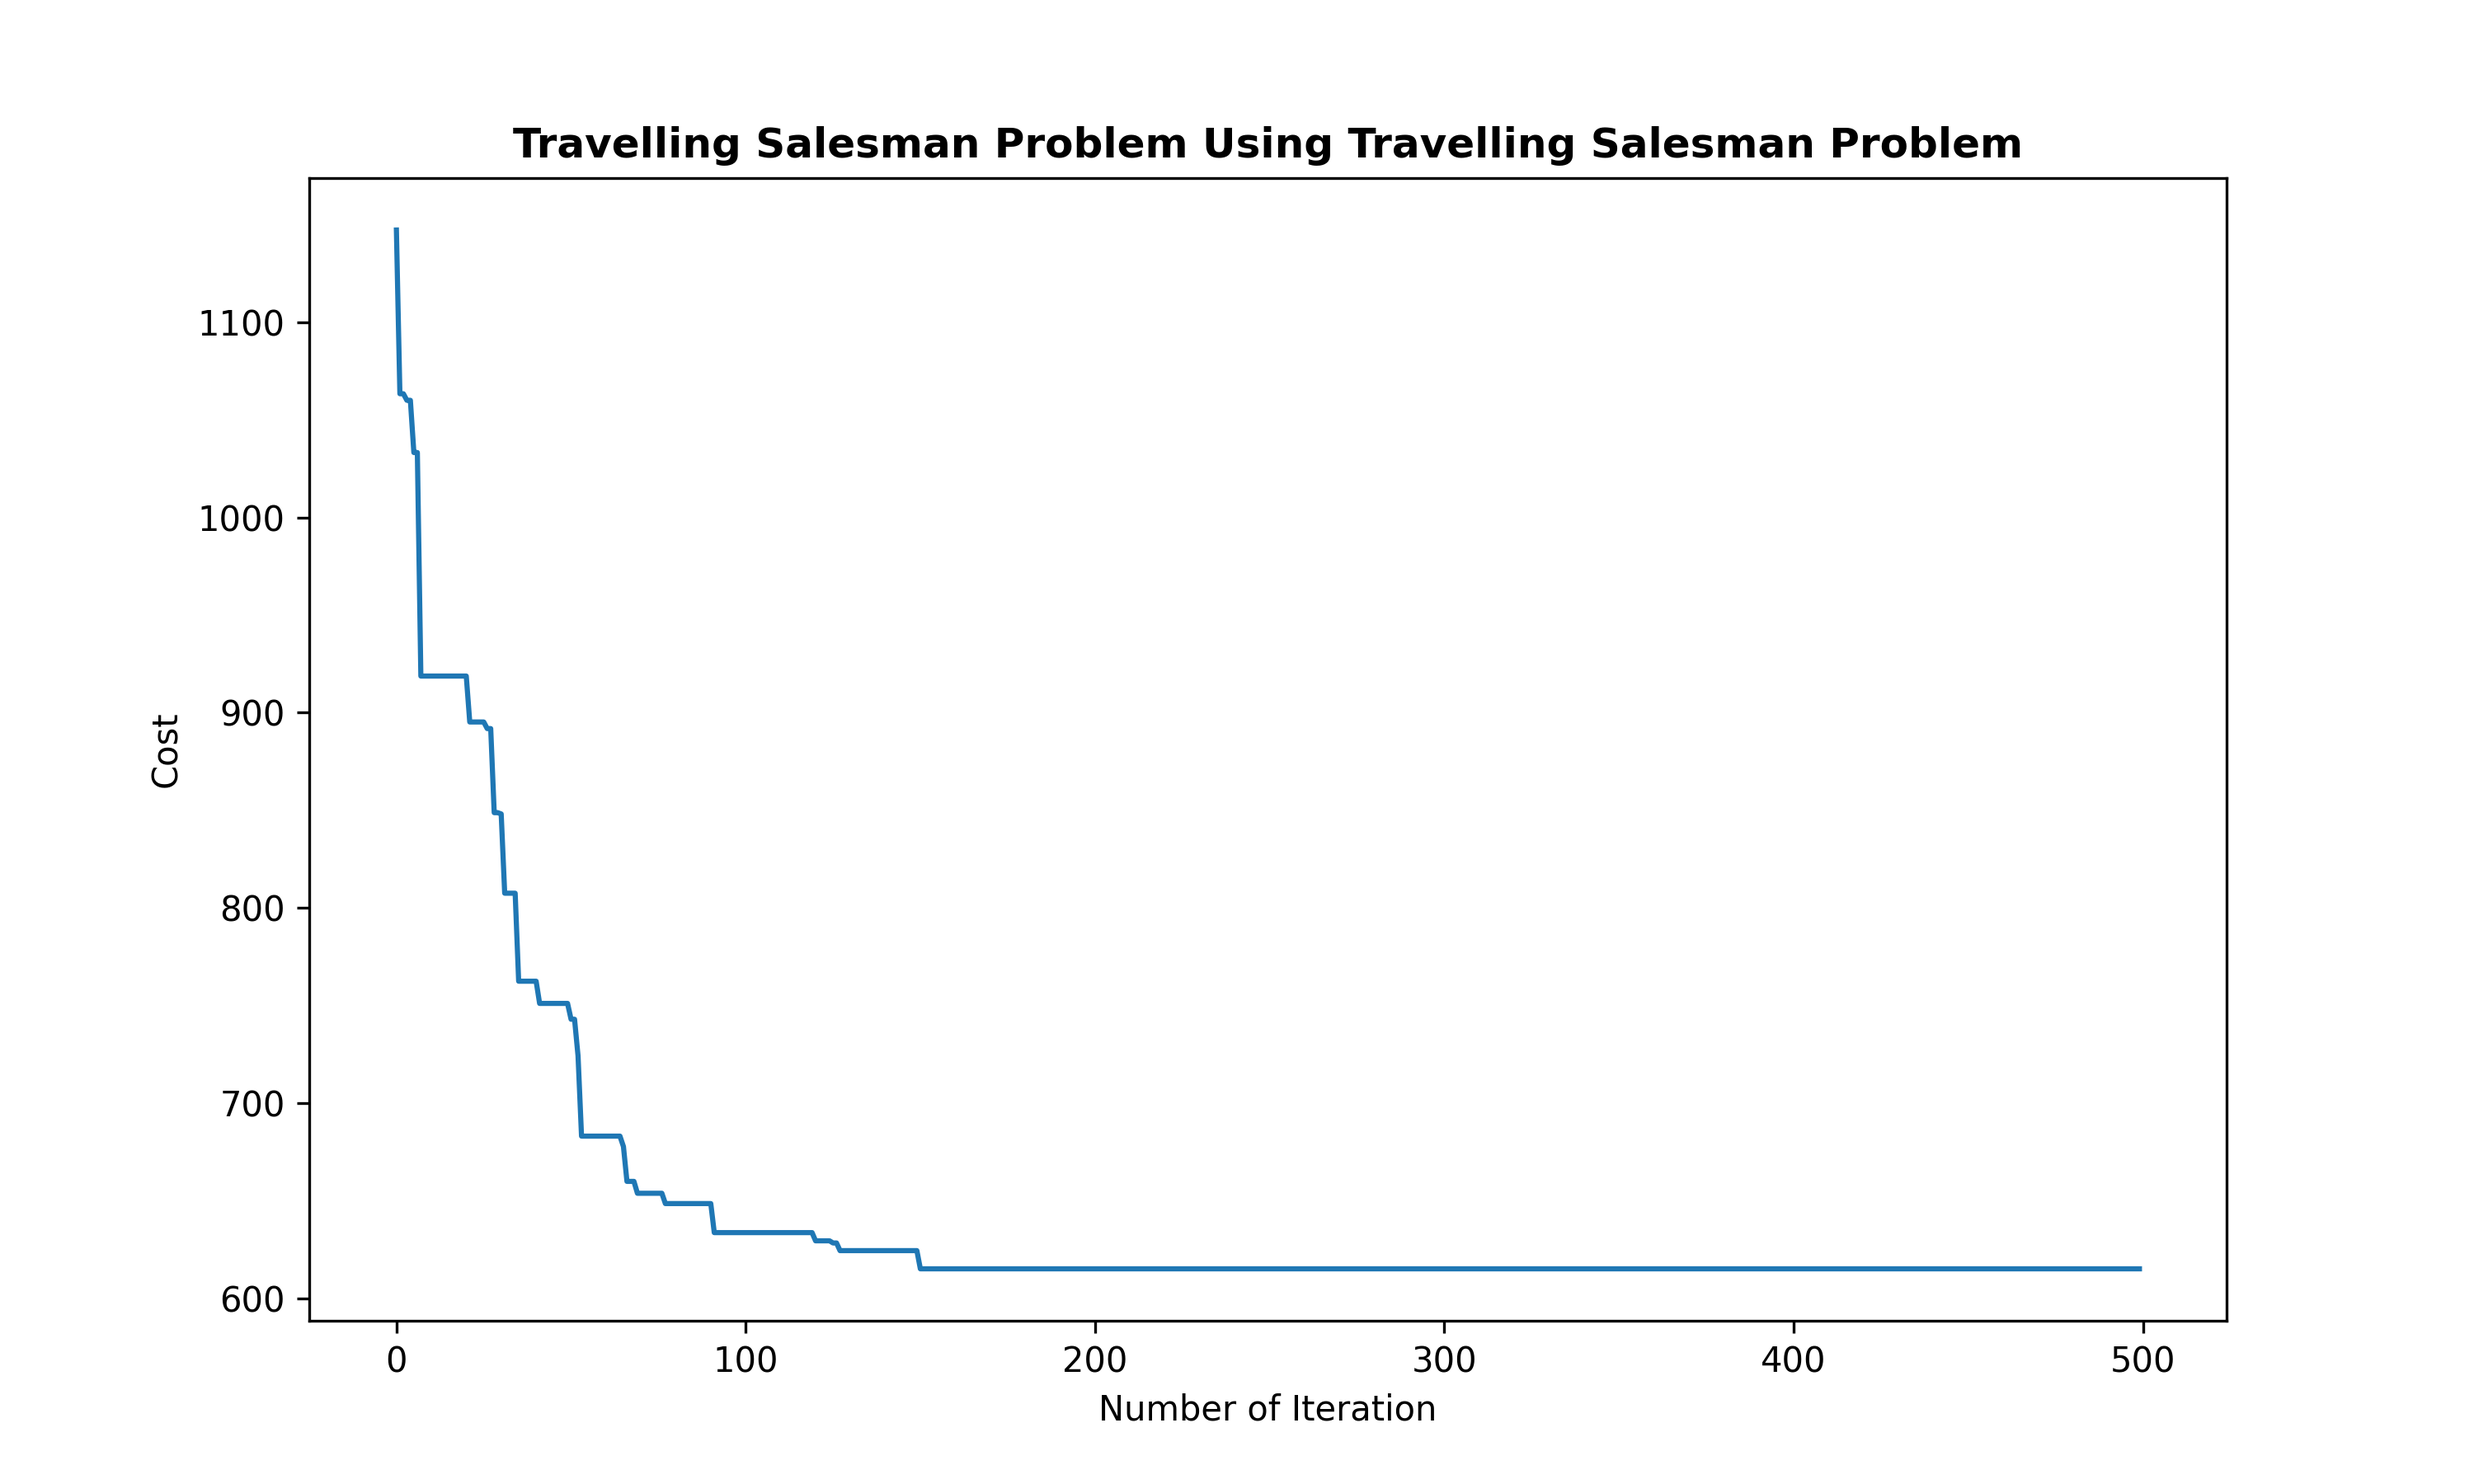
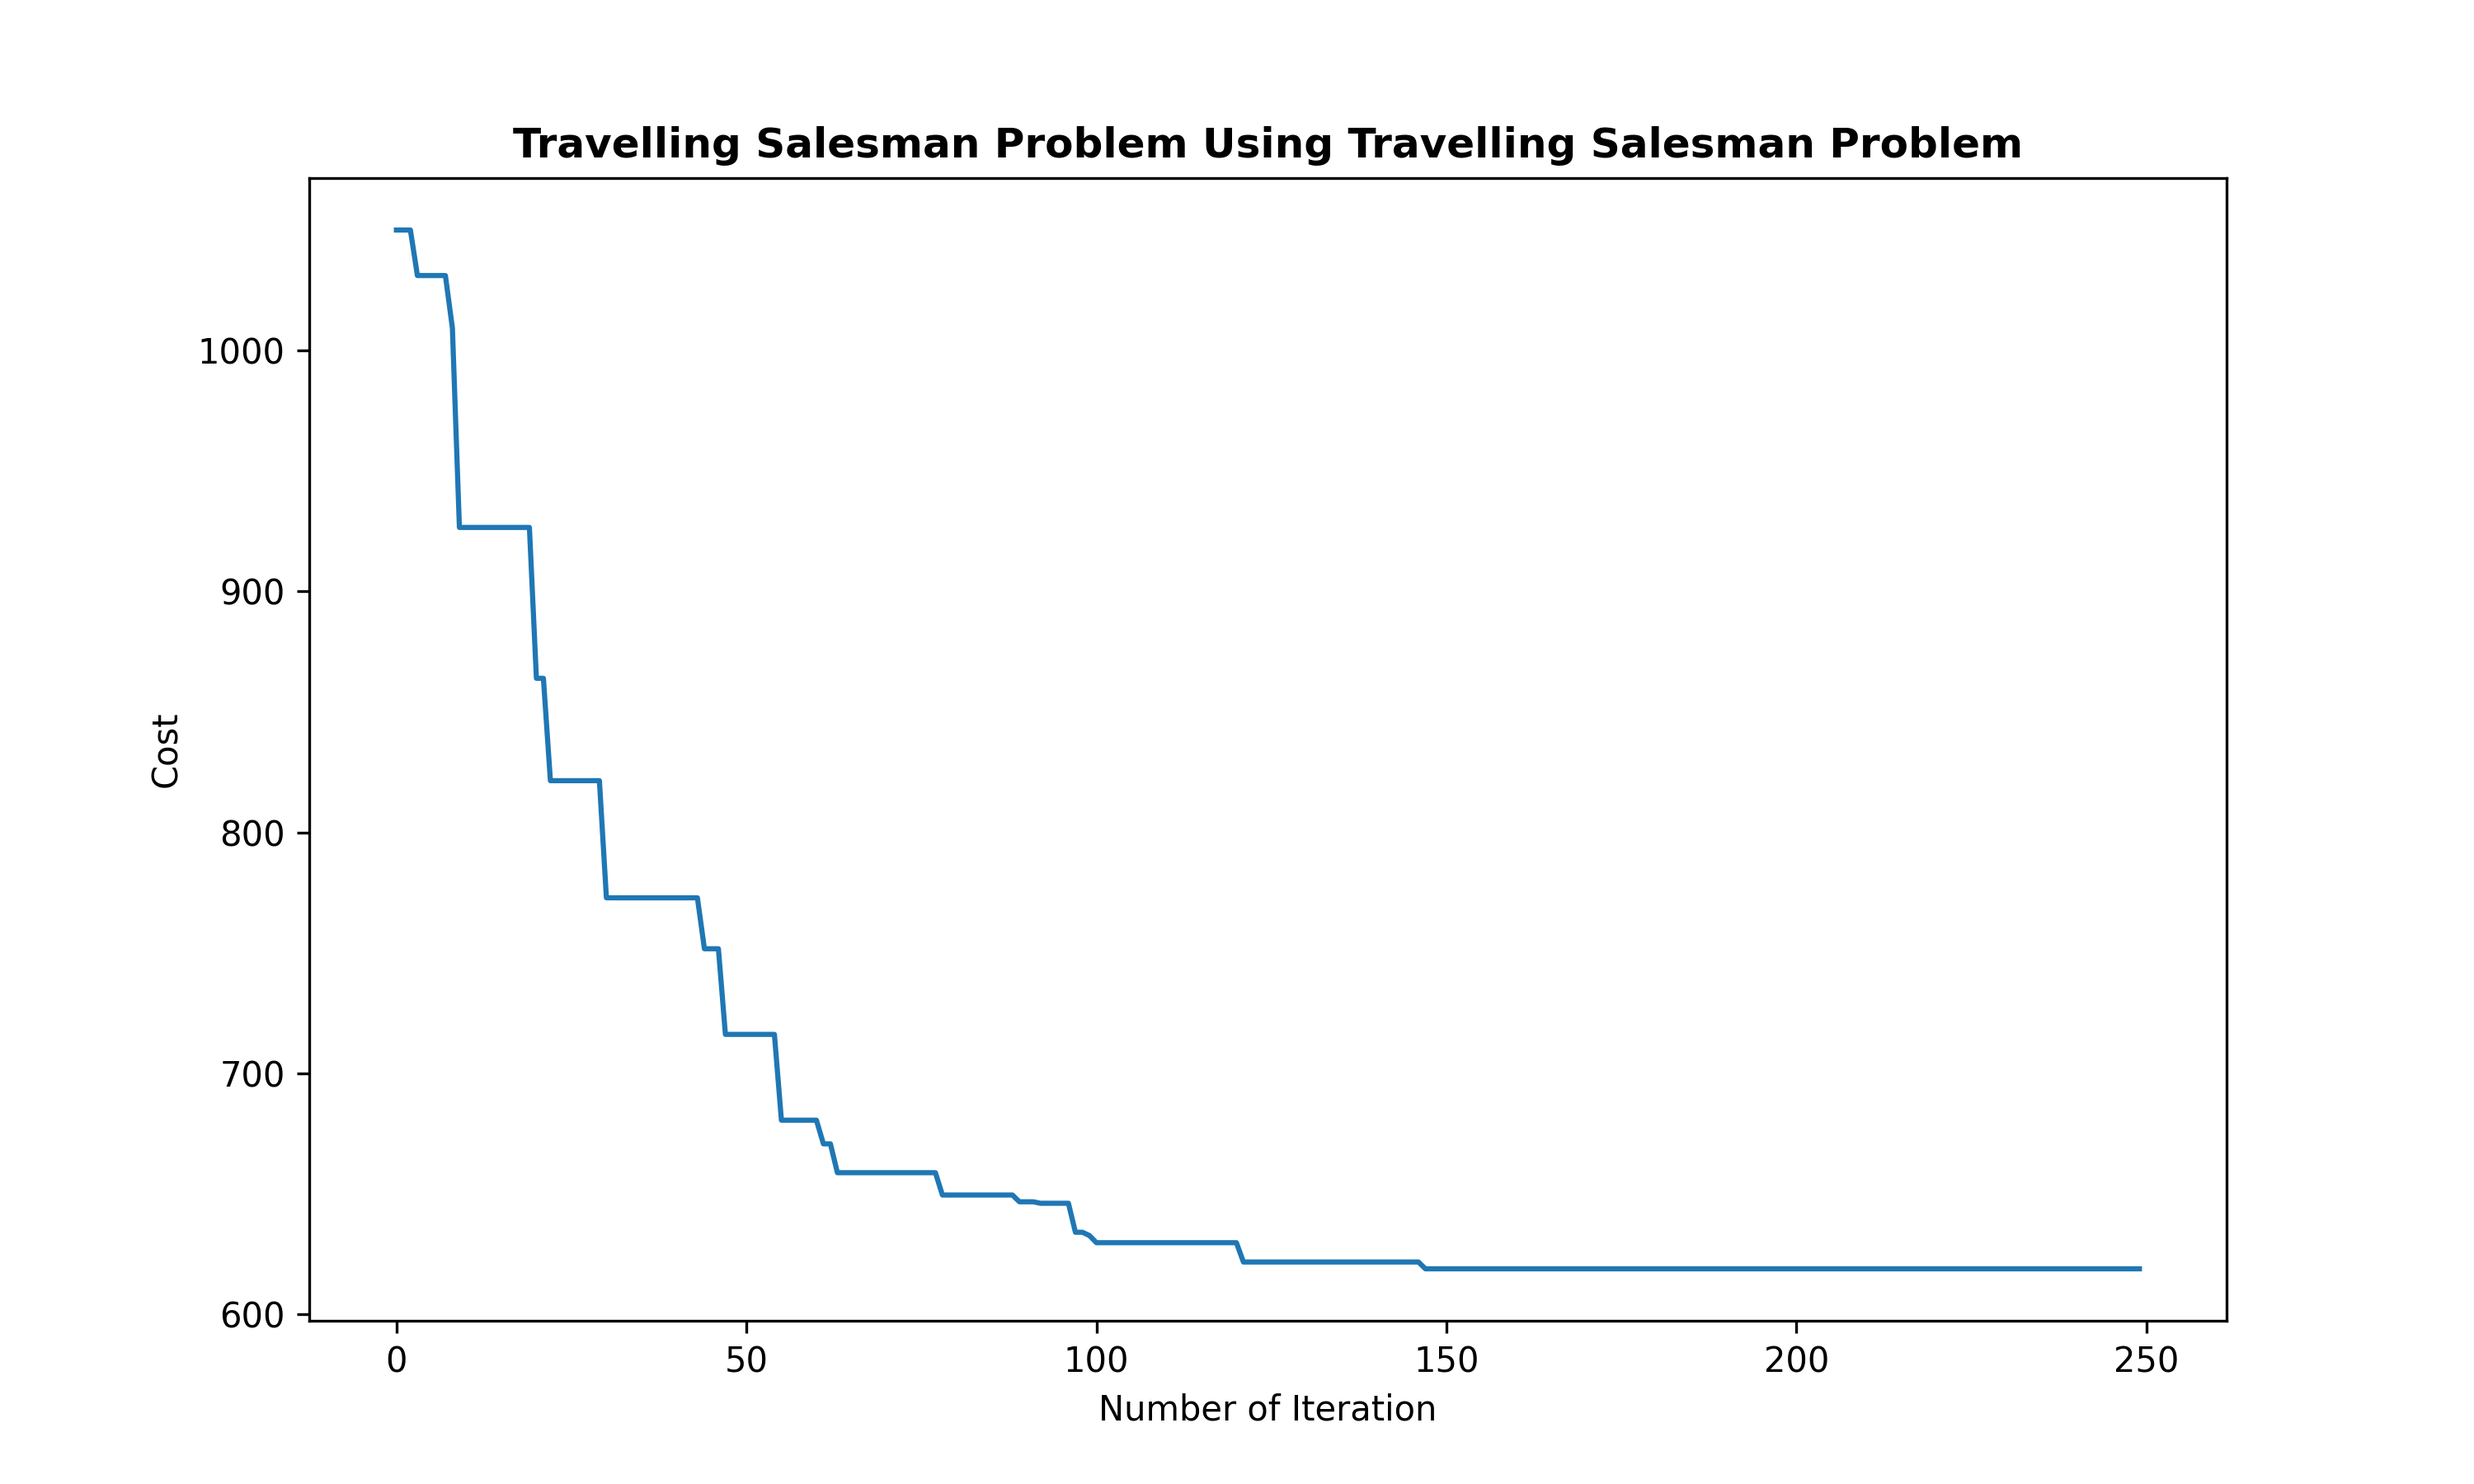
travelling salesman problem using ant colony optimization.

diff --git a/travelling_salesman_problem/main.py b/travelling_salesman_problem/main.py
@@ -17,7 +17,7 @@ def main():
     cost_func = cost_function
 
     solution = ACO(cost_function=cost_func,
-                   max_iteration=500,
+                   max_iteration=250,
                    number_of_ants=100,
                    pheromone=pheromone,
                    pheromone_constant_update=1,
